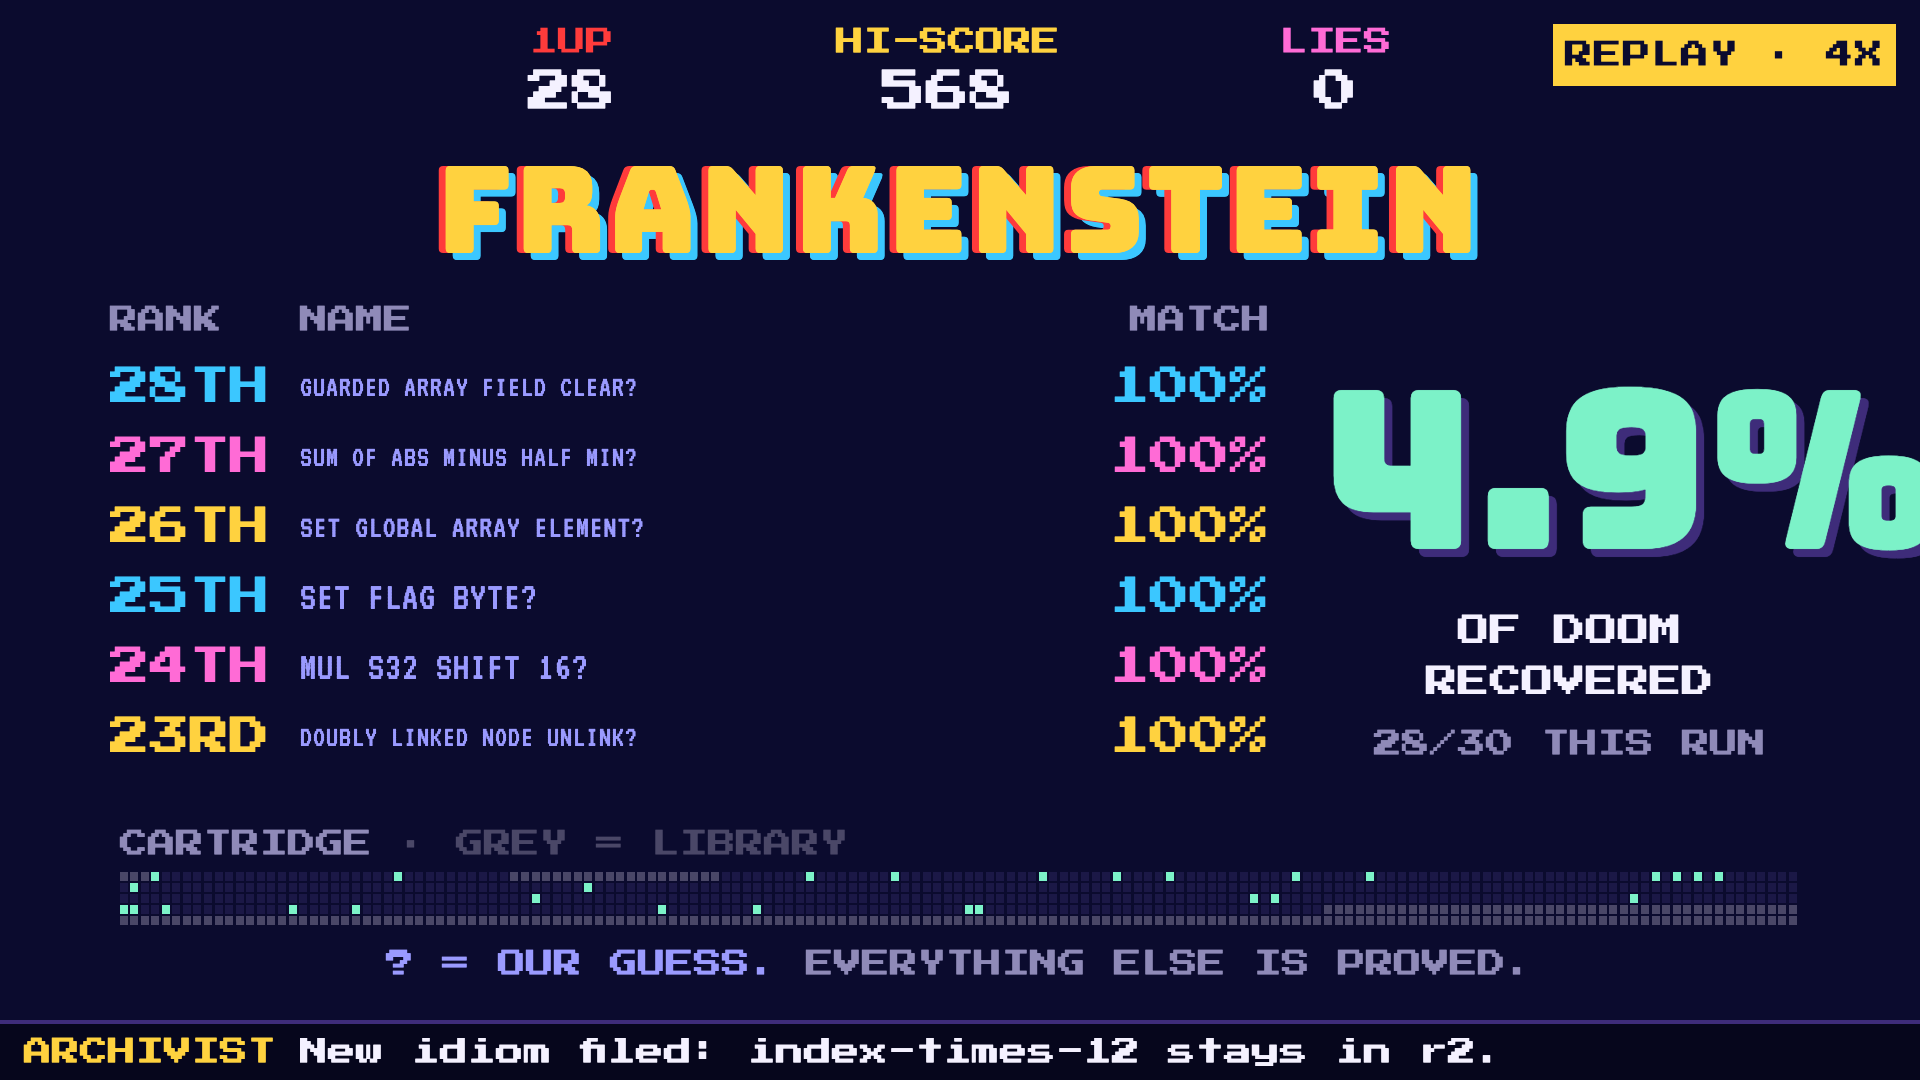
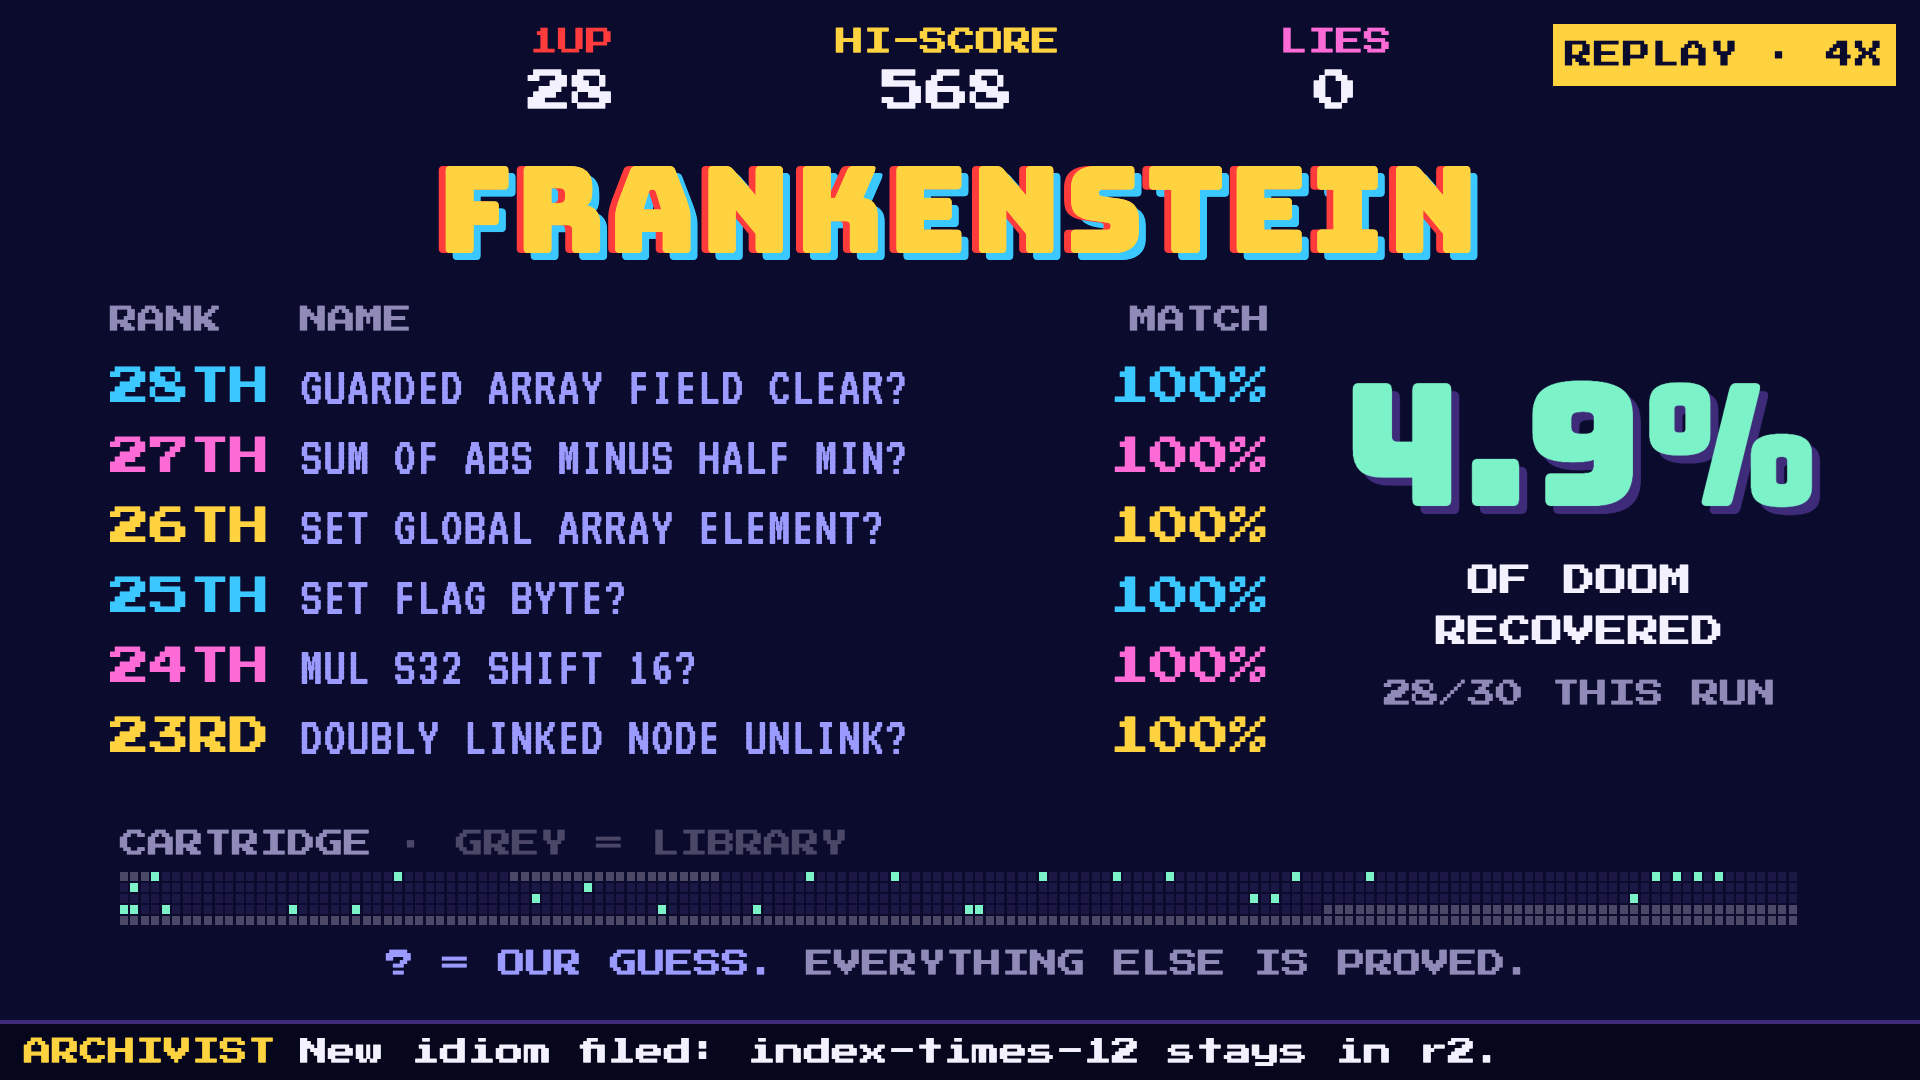
stage: fix the Hi-score hero overflow, Title wrap and red proved count
The 4.9% hero no longer runs off the right edge; guessed names keep their size
on Hi-score; the Title save line fits on one row with proved in mint and only
lies in red. QA now flags text wider than its own box.

Changed region(s): [[0.6875, 0.3361, 1.0, 0.7028], [0.1562, 0.3361, 0.4688, 0.6417], [0.1562, 0.6722, 0.4688, 0.7028]]

diff --git a/stage/src/style.css b/stage/src/style.css
@@ -267,7 +267,8 @@ body.obs .split .game-frame .ph { display: none; }
 .title .menu .f { display: grid; grid-template-columns: 64px 300px 1fr auto; align-items: center; padding: 14px 0; white-space: nowrap; }
 .title .menu .cur { color: var(--yellow); }
 .title .menu .pct { color: var(--mint); }
-.title .menu .sub { padding: 6px 0 18px 364px; font-size: 28px; color: var(--alarm); }
+.title .menu .sub { padding: 6px 0 18px 364px; font-size: 28px; color: var(--alarm); white-space: nowrap; }
+.title .menu .sub b { font-weight: normal; color: var(--mint); }
 .title .menu .f.new { color: var(--dim); }
 .title .press { position: absolute; left: 0; right: 0; margin: 0 auto; width: max-content; top: 920px; text-align: center; font-size: 40px; color: var(--yellow); }
 .title .press.blink { animation: blink 1s steps(1) infinite; }
@@ -294,8 +295,9 @@ body.obs .split .game-frame .ph { display: none; }
 .hiscore .rows { height: 420px; margin-top: 0; }
 .hiscore .row { height: 70px; grid-template-columns: 190px minmax(0,1fr) 170px; font-size: 40px; }
 .hiscore .row .nm { white-space: nowrap; }
-.hiscore .hero { position: absolute; left: 1320px; top: 360px; width: 500px; text-align: center; }
-.hiscore .hero .num { font: 220px/1 'Bungee', sans-serif; color: var(--mint); text-shadow: 8px 8px 0 var(--night-violet); }
+.hiscore .row .nm.guess { font-size: 56px; }
+.hiscore .hero { position: absolute; left: 1300px; top: 360px; width: 560px; text-align: center; }
+.hiscore .hero .num { font: 170px/1 'Bungee', sans-serif; color: var(--mint); text-shadow: 8px 8px 0 var(--night-violet); white-space: nowrap; }
 .hiscore .hero .cap { font-size: 32px; line-height: 1.6; margin-top: 26px; color: var(--ink); }
 .hiscore .hero .run { font-size: 28px; margin-top: 22px; color: var(--dim); }
 .hiscore .cart { position: absolute; left: 120px; top: 830px; width: 1680px; }

diff --git a/stage/src/scenes/title.ts b/stage/src/scenes/title.ts
@@ -54,7 +54,8 @@ export class TitleScene implements Scene {
     if (q('pct').textContent !== p) q('pct').textContent = p;
     const g = gameName(s);
     if (q('game').textContent !== g) q('game').textContent = g;
-    const l = `${s.matched.length} PROVED · ${s.falseClaims.length} LIES CAUGHT`;
-    if (q('lies').textContent !== l) q('lies').textContent = l;
+    // proved in mint, lies in red: alarm red only ever means a lie
+    const l = `<b>${s.matched.length} PROVED</b> · ${s.falseClaims.length} LIES`;
+    if (q('lies').innerHTML !== l) q('lies').innerHTML = l;
   }
 }

diff --git a/stage/src/scenes/hiscore.ts b/stage/src/scenes/hiscore.ts
@@ -62,7 +62,7 @@ export class HiscoreScene implements Scene {
     if (capEl.innerHTML !== cap) capEl.innerHTML = cap;
     setText(this.el, 'run', s.fnTotal && s.fnTotal !== total ? `${s.matched.length}/${s.fnTotal} THIS RUN` : '');
     renderRows(this.rowsEl, ctx, 6, this.memo, this.liar);
-    this.fitNames();
+    // long guessed names are fitted by renderRows (fitNames in common.ts)
     drawMeter(this.meter, ctx);
     renderTicker(this.el, s, ctx.reduced);
   }
